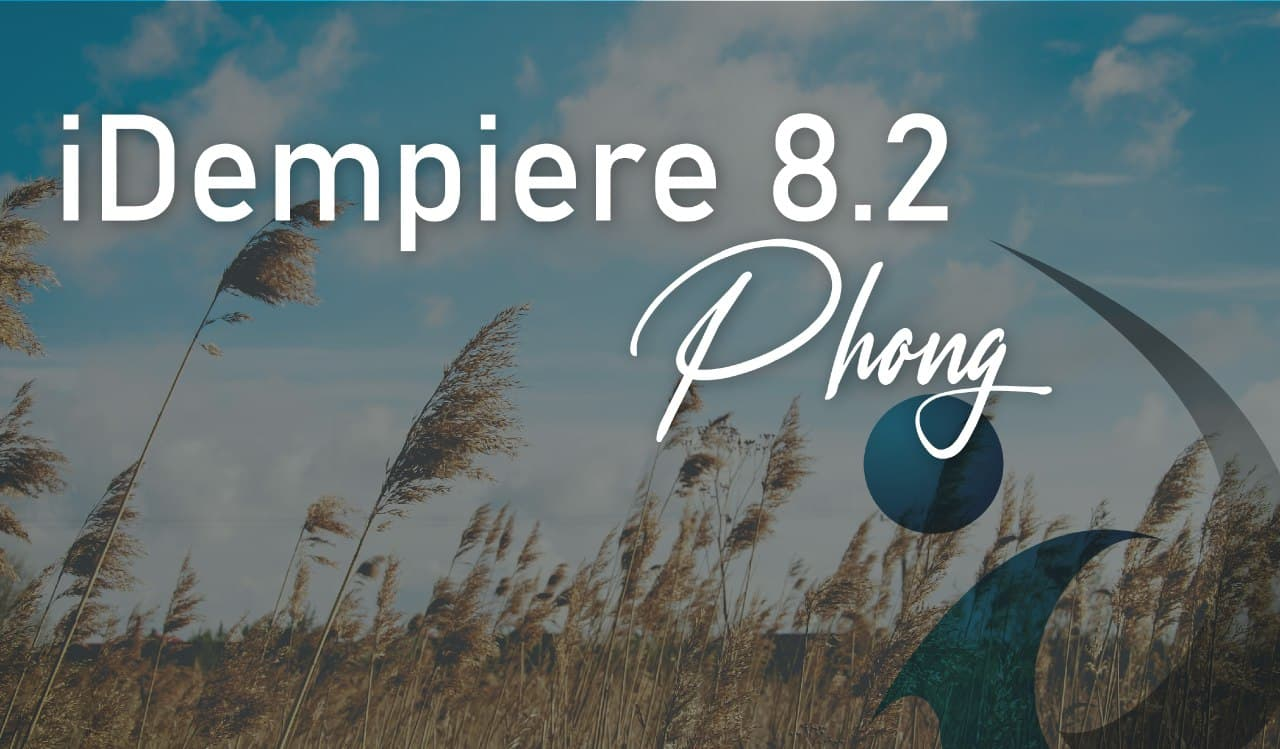
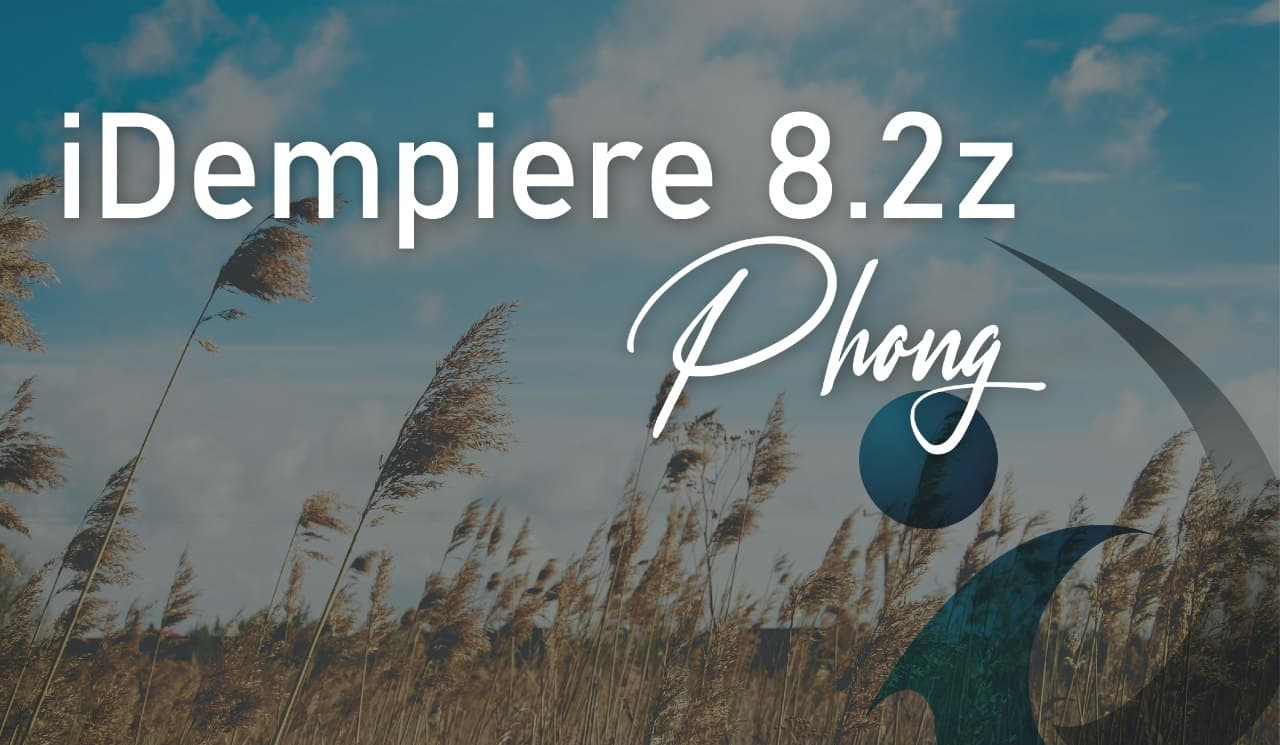
IDEMPIERE-4604 Release 8.2 Phong (#480)
Changes to differentiate test servers 8.2 from 8.2z

diff --git a/org.adempiere.server/idempiere.html b/org.adempiere.server/idempiere.html
@@ -44,7 +44,7 @@
         <tbody>
           <tr>
 
-            <td align="left" valign="middle"><font color="#ffffff" face="Arial, Helvetica, sans-serif" size="4">Welcome to the iDempiere (OSGi+ADempiere) 8.2 Phong Page!<br>
+            <td align="left" valign="middle"><font color="#ffffff" face="Arial, Helvetica, sans-serif" size="4">Welcome to the iDempiere (OSGi+ADempiere) 8.2z Phong Page!<br>
 
             </font></td>
 

diff --git a/org.adempiere.server/src/main/home/org/bmlaurus/home/Prop.java b/org.adempiere.server/src/main/home/org/bmlaurus/home/Prop.java
@@ -90,7 +90,7 @@ public final class Prop implements Serializable {
 	public static final String	SOC_7				=	"Social7";
 	
 	/**Defaults*/
-	private static final String CREDITS				=	"Welcome to the iDempiere (OSGi+ADempiere) 8.2 Phong Page!";
+	private static final String CREDITS				=	"Welcome to the iDempiere (OSGi+ADempiere) 8.2z Phong Page!";
 	private static String LOGO_URL 					= 	null;
 	
 	
